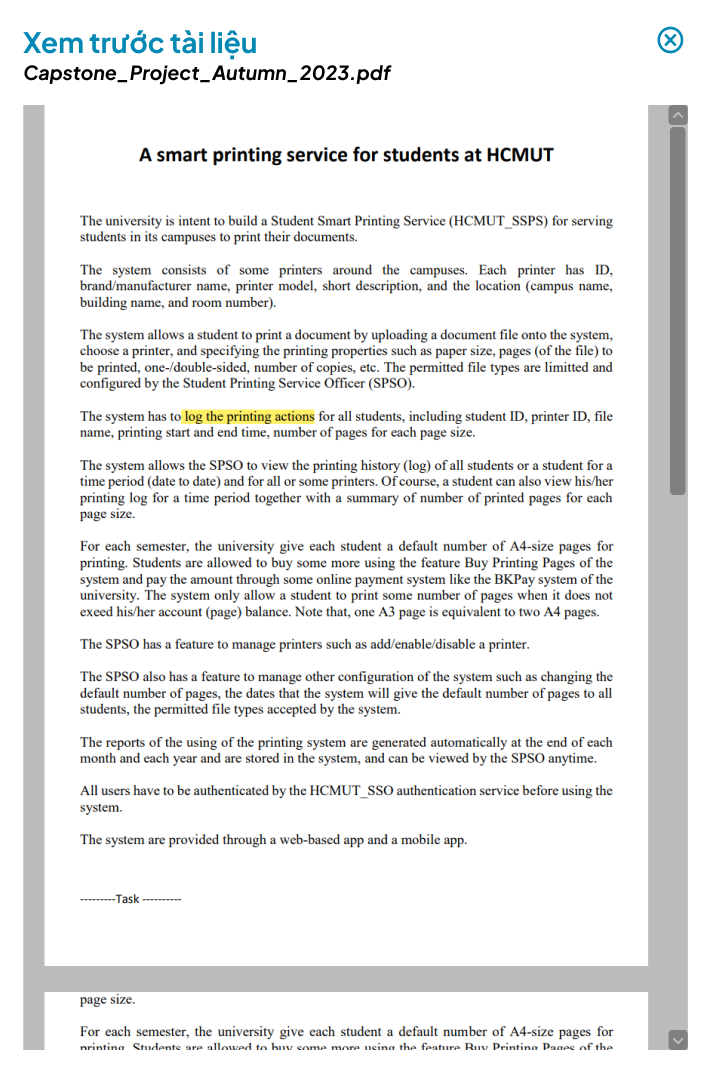
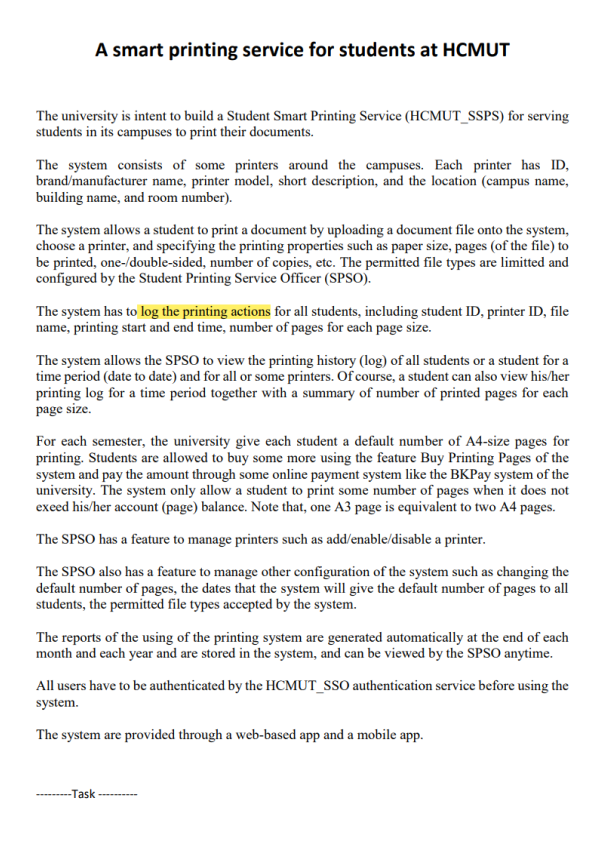
Version 2

diff --git a/src/pages/PrintingDocumentPrintingMode/index.jsx b/src/pages/PrintingDocumentPrintingMode/index.jsx
@@ -1,5 +1,7 @@
 import React, { useState } from "react";
 import Header from "../../components/Header";
+import PDFViewing from "../../assets/images/PDF_Viewing.png"
+import PDFFile from "../../assets/images/W5_RelationalAlgebra.pdf"
 import WaitingItem from "../../components/WaitingItem";
 import { formatDateTime } from "../../utils/functions"
 
@@ -23,25 +25,28 @@ const PrintDocumentPage = () => {
       {/* Header */}
       <Header pageName="Print Document" description="Uploaded document for printing."/>
       {/* Main Content */}
-      <div className="flex flex-1 flex-row space-x-4 p-4 overflow-y-auto">
+      <div className="flex h-full space-x-4 rounded-lg justify-start overflow">
         {/* File Preview Section */}
-        <div className="flex flex-col w-3/5 bg-white p-4 rounded-md shadow-md">
-          <h2 className="font-bold text-lg">Xem trước tài liệu</h2>
-          <img
-            src="D:\AssCNPM\SPSO-HCMUT-S241-CC01-Group_14\src\assets\images\PDF_Viewing.png" // Replace with actual PNG file path
-            alt="Document preview"
-            className="h-full w-full mt-4 rounded-md"
-          />
+        <div className="flex flex-col w-3/5 bg-white p-4 rounded-md shadow-md overflow-hidden relative">
+          <h2 className="text-blue font-bold text-xl ">Xem trước tài liệu</h2>
+          <p className="font-bold text-black text-sm">Capstone_Project_Autumn_2023.pdf</p>
+          <div className="relative w-full h-[80vh] overflow-auto bg-gray-100">
+            <embed
+              src={PDFFile}
+              alt="Document preview"
+              className="h-full w-full mt-4 rounded-md object-contain"
+            />
+          </div>
         </div>
 
         {/* File Attributes and Printing Details */}
         <div className="flex flex-col w-2/5 space-y-4">
           {/* File Attributes */}
           <div className="bg-white p-4 rounded-md shadow-md">
-            <h2 className="text-blue font-bold text-xl">File Atrributes</h2>
-            <p className="font-normal text-gray-dark text-sm">File name: Capstone_Project_Autumn_2023.pdf</p>
-            <p className="font-normal text-gray-dark text-sm">Size: 40.2 KB</p>
-            <p className="font-normal text-gray-dark text-sm">Number of Pages: 6</p>
+            <h2 className="text-blue font-bold text-xl">File Attributes</h2>
+            <p className="font-bold text-black text-sm"><span>File name:</span> <span className="font-normal text-gray-dark text-sm">Capstone_Project_Autumn_2023.pdf</span></p>
+            <p className="font-bold text-black text-sm"><span>Size:</span> <span className="font-normal text-gray-dark text-sm">40.2 KB</span></p>
+            <p className="font-bold text-black text-sm"><span>Number of Pages:</span> <span className="font-normal text-gray-dark text-sm">6</span></p>
           </div>
 
           {/* Printing Info */}
